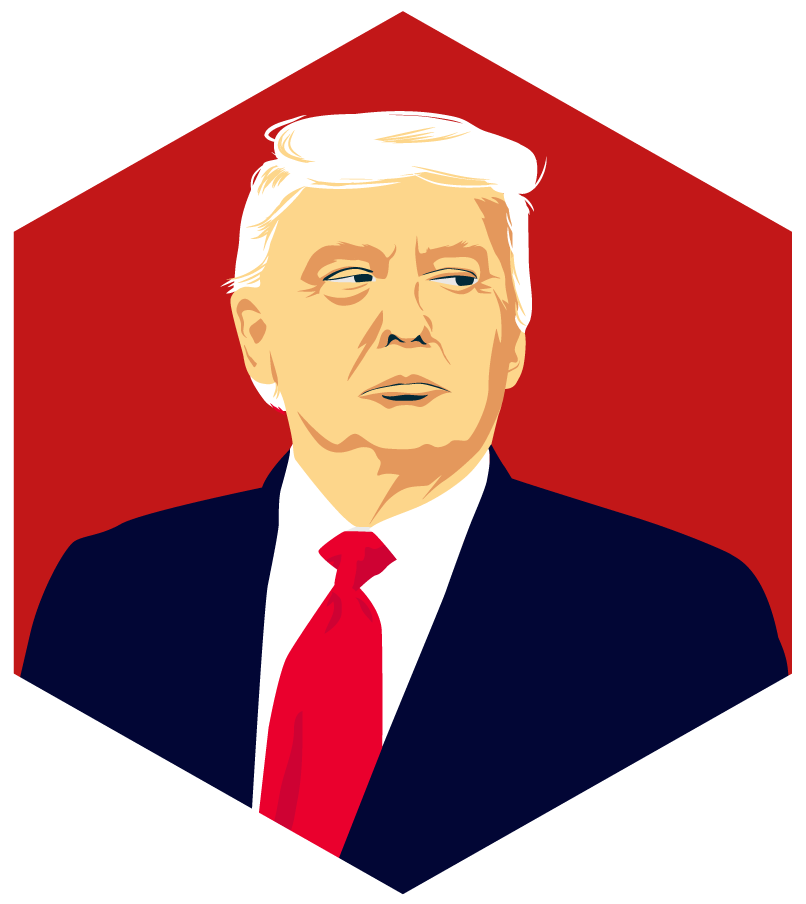
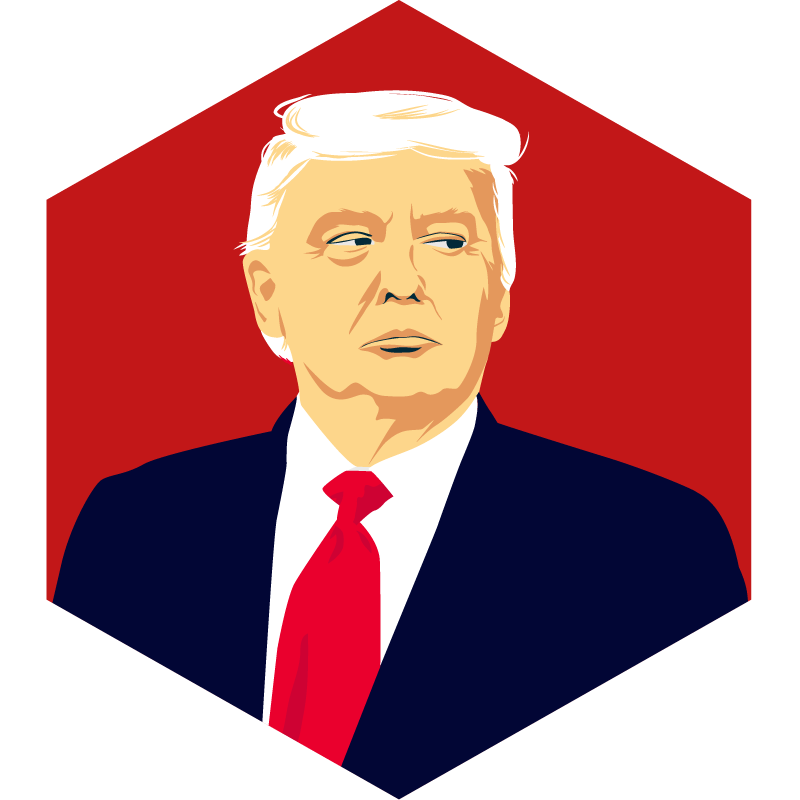
Replaced unknown illustration

diff --git a/src/components/Illustration/styles.scss b/src/components/Illustration/styles.scss
@@ -1,18 +1,18 @@
 .root {
-  margin: 0.5rem auto 0;
+  margin: -1rem auto -1.5rem;
   width: 100%;
-  max-width: 18.75rem;
+  max-width: 17.5rem;
 }
 
 @media (min-width: 61.25rem) {
   .root {
-    margin: 1rem auto -1rem;
+    margin: 0 auto -1.5rem;
   }
 }
 
 .graphic {
   position: relative;
-  padding-bottom: 75%;
+  padding-bottom: 100%;
   width: 100%;
   height: 0;
 }
